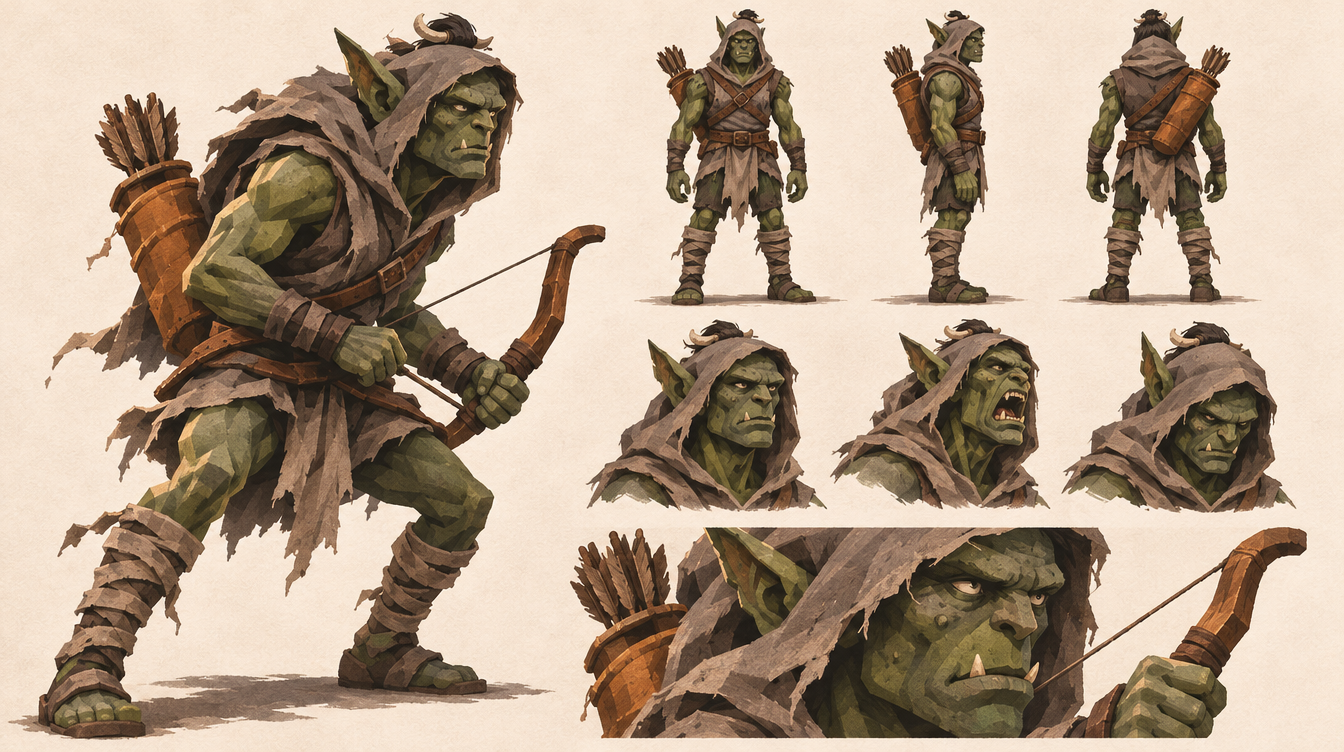
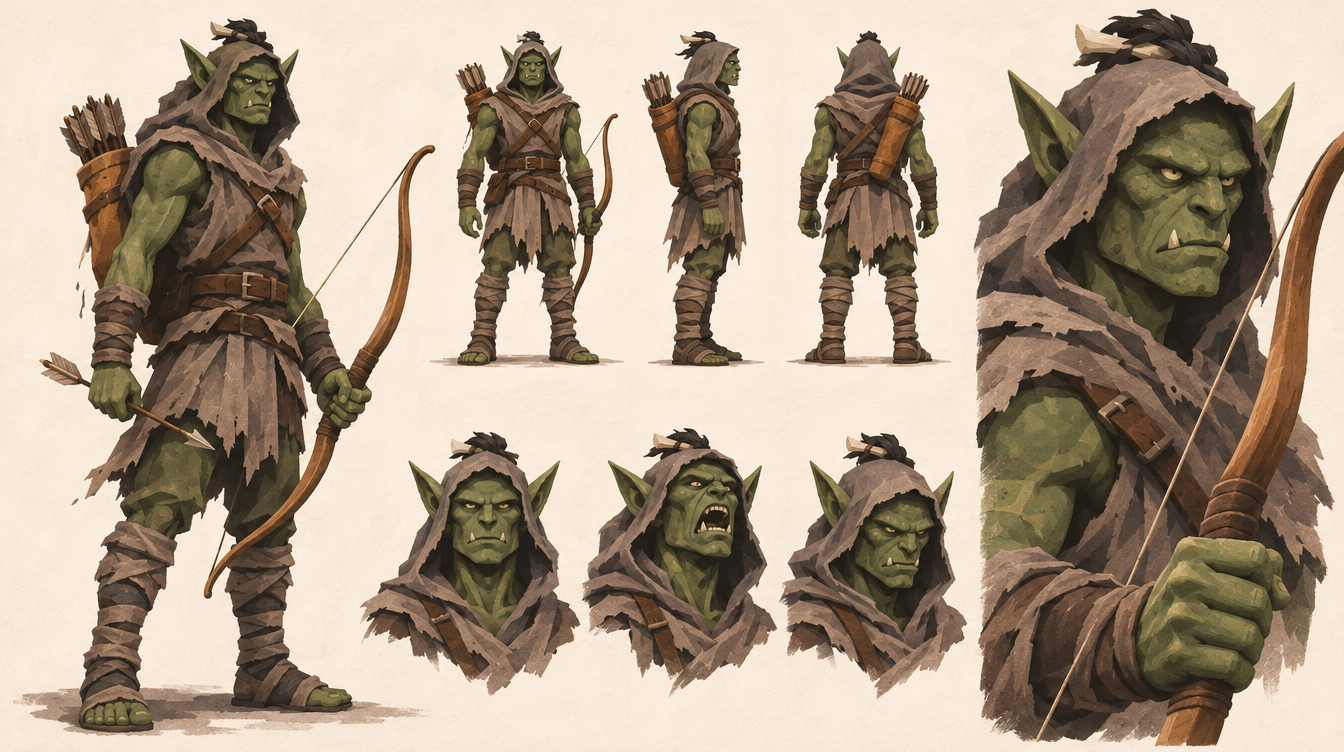
Sửa cung thủ người (ống tên dài đúng cỡ) và cung thủ Orc (hai tai đối xứng, cung đúng tỉ lệ); thêm lưu ý kiểm giải phẫu vào prompt
Claude-Session: https://claude.ai/code/session_01JLSNBEZAQYaaf5bHkUdgrp

diff --git a/docs/art/character-sheets.md b/docs/art/character-sheets.md
@@ -81,9 +81,11 @@ a medieval East Asian militia spearman, clean-shaven, black cloth cap, grey padd
 a Vietnamese medieval heavy infantryman, small mustache, steel helmet with a red plume and a gilded brow ornament, grey layered steel lamellar armor (small vertical plates laced in staggered rows) with brown trim and layered shoulder guards, dark red under-robe, yellow-and-black patterned sash at the waist, black boots, wielding a long two-handed straight sword (truong kiem) held across the body, with a short dirk in a brown studded scabbard at the left hip, accent color: red plume and dark red robe,
 ```
 
+**Lưu ý giải phẫu và tỉ lệ (kiểm khi duyệt ảnh, mọi sheet):** tai đối xứng bằng nhau, đủ hai tay hai chân, năm ngón mỗi bàn tay, vũ khí đúng tỉ lệ cơ thể. Lỗi đã gặp: tai một dài một ngắn (do prompt tả "một tai dài" theo sprite nhìn nghiêng, phải viết `two pointed ears of exactly equal size`), cung quá nhỏ như đồ chơi, ống tên quá ngắn.
+
 **Cung thủ** (`human_archer.png`)
 ```
-a medieval East Asian foot archer, clean-shaven, short black hair, plain brown cloth cylindrical cap (not fur, no brim), grey padded armored vest with dark moss-green trim and a black belt over a long brown cotton robe with long sleeves, plain black boots, simple long wooden self bow with a dark red-brown stave, yellow-ochre leather quiver of arrows at the hip, accent color: yellow-ochre quiver,
+a medieval East Asian foot archer, clean-shaven, short black hair, plain brown cloth cylindrical cap (not fur, no brim), grey padded armored vest with dark moss-green trim and a black belt over a long brown cotton robe with long sleeves, plain black boots, simple long wooden self bow with a dark red-brown stave, a LONG yellow-ochre leather quiver of realistic size (about 60-70 cm, tall tapered cylinder with many arrows whose fletching clearly sticks out above its opening, strap across the torso), accent color: yellow-ochre quiver,
 ```
 
 **Kỵ binh** (`human_cavalry.png`)
@@ -116,7 +118,7 @@ a huge hulking green-skinned orc brute with big lower tusks, spiked grey iron sh
 
 **Orc cung thủ** (`orc_archer.png`)
 ```
-a green-skinned orc archer with a long ear and small tusks, grey cloth hood and wrapped grey tunic, leather straps across the chest, orange-brown leather quiver on the back, short wooden bow, cloth-wrapped legs, accent color: orange-brown quiver,
+a green-skinned orc archer with a long ear and small tusks, grey cloth hood and wrapped grey tunic, leather straps across the chest, orange-brown leather quiver on the back, a wooden bow about two thirds of his body height with an even curve and a straight string, clearly in scale (not a toy bow), cloth-wrapped legs, accent color: orange-brown quiver,
 ```
 
 **Kỵ lợn rừng** (`orc_cavalry.png`)
@@ -147,7 +149,7 @@ an eerie East Asian dark-taoist necromancer commander, tall gaunt figure in a lo
 
 ## Ví dụ đã chạy và đạt: Cung thủ người (kèm sprite `human_archer.png`)
 
-Kết quả: `docs/art/sheets/archer_human.png` (đã có giáp lá + đoản kiếm), bản âm binh: `docs/art/sheets/archer_undead.png` (chạy trước khi thêm giáp lá + đoản kiếm, cần chạy lại), cung thủ Orc gầy nhanh nhẹn (bản cuối, mũ trùm kéo lên như sprite): `docs/art/sheets/archer_orc.png`, bộ binh người: `docs/art/sheets/infantry_human.png`, kỵ binh người: `docs/art/sheets/cavalry_human.png`.
+Kết quả: `docs/art/sheets/archer_human.png` (đã có giáp lá + đoản kiếm), bản âm binh: `docs/art/sheets/archer_undead.png` (chạy trước khi thêm giáp lá + đoản kiếm, cần chạy lại), cung thủ Orc gầy nhanh nhẹn, hai tai đối xứng, cung đúng tỉ lệ: `docs/art/sheets/archer_orc.png` (tư thế đứng, dùng làm sheet chính) và `docs/art/sheets/archer_orc_action.png` (tư thế kéo cung), cung thủ người ống tên dài đúng cỡ đeo hông: `docs/art/sheets/archer_human.png`, bộ binh người: `docs/art/sheets/infantry_human.png`, kỵ binh người: `docs/art/sheets/cavalry_human.png`.
 Prompt bản cuối của cung thủ người thêm khối "Trang bị chung của phe người" vào ngay sau phần mô tả áo.
 
 ```
